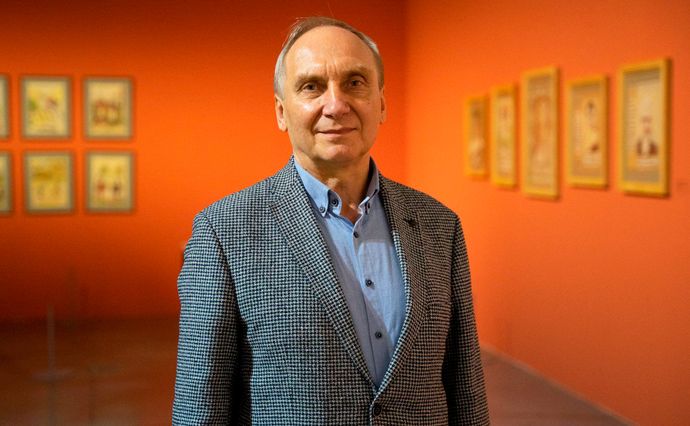
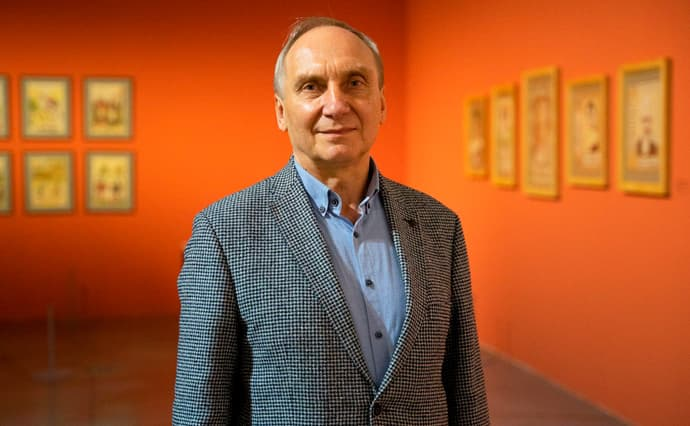
content edits

diff --git a/public/css/main.css b/public/css/main.css
@@ -295,6 +295,7 @@ button {
         margin-top: 2rem; }
         .participants--wrapper .participant__pic img {
           width: 100%;
+          max-height: 80vh;
           object-fit: contain; }
         .participants--wrapper .participant__pic > div {
           position: absolute;

diff --git a/sass/pages/index.scss b/sass/pages/index.scss
@@ -124,6 +124,7 @@
         margin-top: 2rem;
         img {
           width: 100%;
+          max-height: 80vh;
           object-fit: contain;
         }
         > div {
